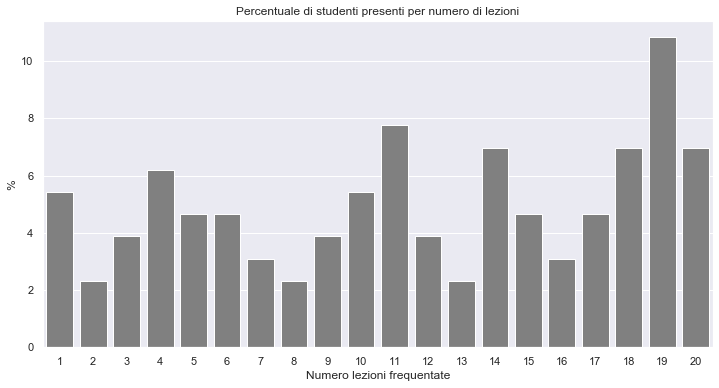
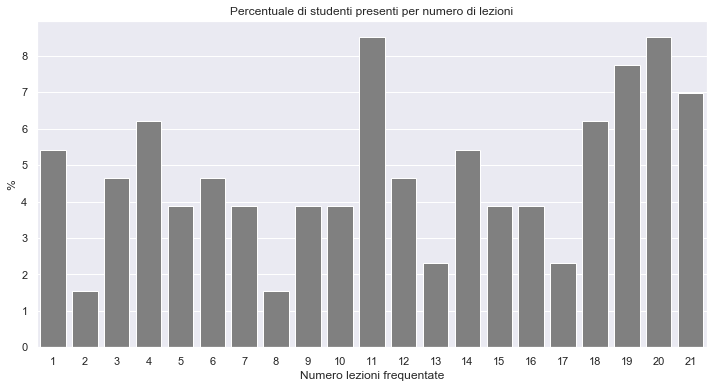
Updated freqs

diff --git a/sito/frequenze.md b/sito/frequenze.md
@@ -8,7 +8,7 @@ Questa pagina contiene una analisi *aggregata* delle informazioni riguardanti la
 
 Il primo grafico riporta il numero assoluto di studenti presenti 
 per ciascuna lezione che si è svolta alla data odierna, in media
-sono stati presenti **74.59** (σ=15.87) studenti.
+sono stati presenti **73.66** (σ=16.05) studenti.
 
 
 
